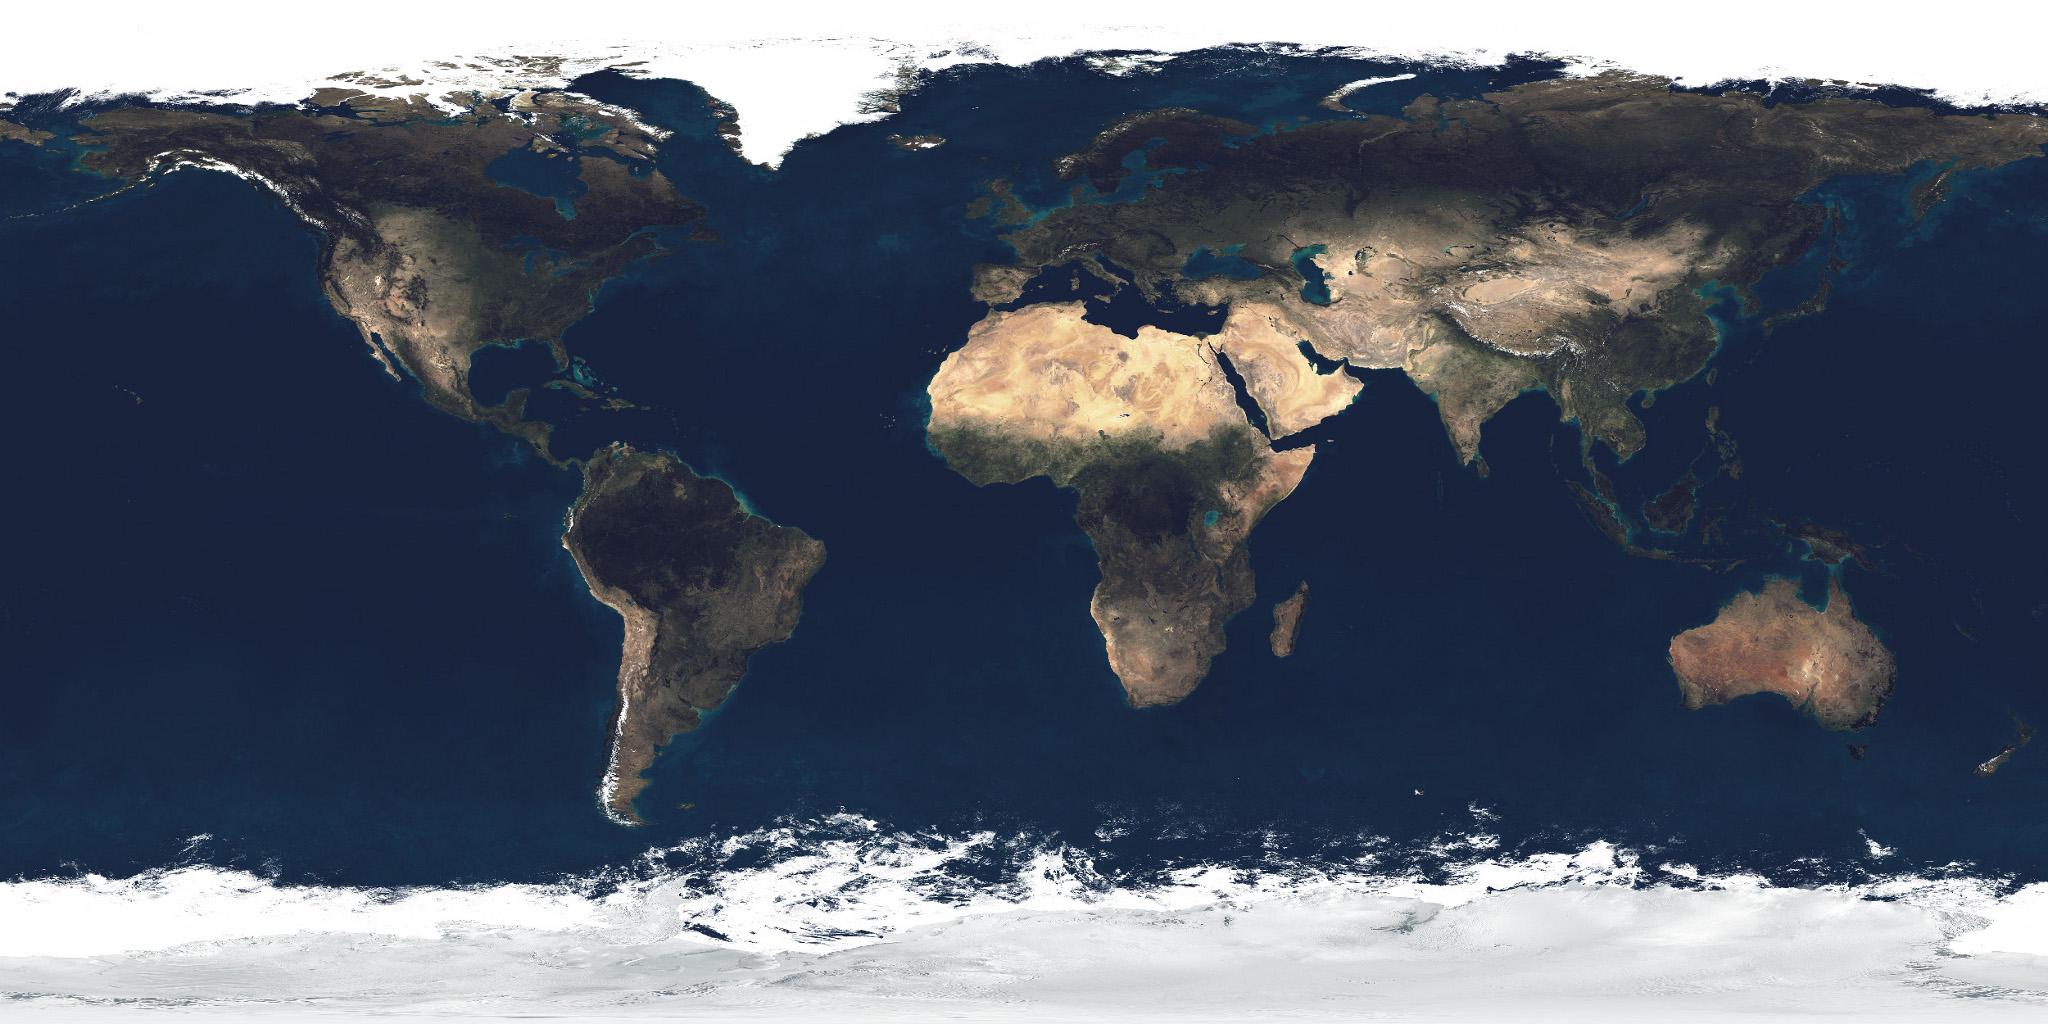
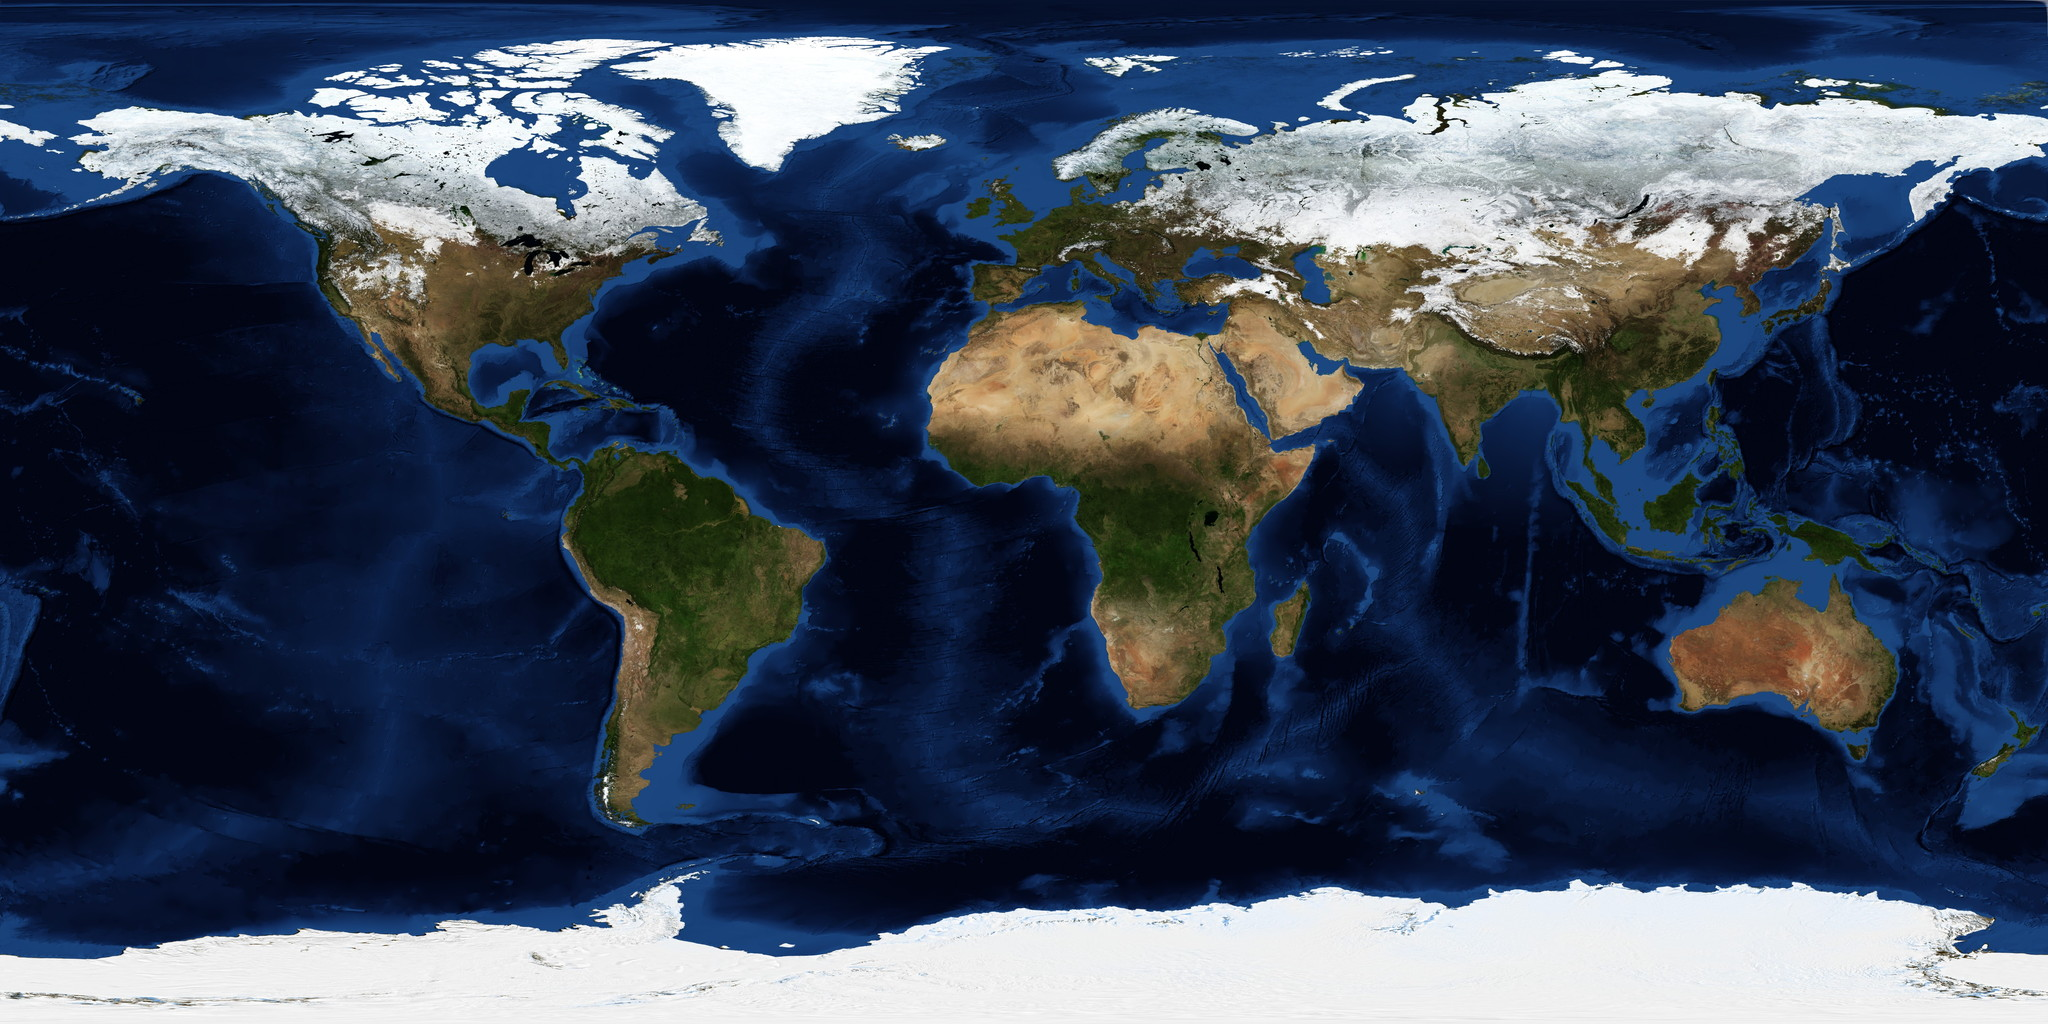
Phase 3: verified NASA/USGS globe textures (BMNG, LROC, MDIM21) + manifest + pipeline

diff --git a/src/data/assets/manifest.ts b/src/data/assets/manifest.ts
@@ -1,0 +1,122 @@
+/**
+ * Phase 3 globe-texture manifest. Machine-readable provenance for every bundled
+ * planetary surface map. Generated deliveries: scripts/build-globes.py
+ * (2048x1024 sRGB JPEG in src/assets/tex/ + 4096x2048 hi-res in assets-hi/).
+ * Verified facts only — see docs/PLANETARY_ASSET_AUDIT.md Phase 3 section.
+ */
+export type GlobeKind = "earth" | "moon" | "mars";
+
+export interface GlobeAsset {
+  id: string;
+  body: string;
+  org: string;
+  product: string;
+  sourceUrl: string;
+  sourceFile: string;
+  sourcePx: [number, number];
+  deliveredPx: [number, number];
+  hiresPx: [number, number];
+  projection: string;
+  colorClass: string;
+  processing: string;
+  gaps: string;
+  credit: string;
+  format: string;
+  colorSpace: "SRGBColorSpace";
+  orientation: string;
+  status: "APPROVED";
+}
+
+export const GLOBE_MANIFEST: GlobeAsset[] = [
+  {
+    id: "earth-bmng-2004",
+    body: "earth",
+    org: "NASA Earth Observatory",
+    product: "Blue Marble Next Generation, Topography + Bathymetry, December 2004 base",
+    sourceUrl: "https://eoimages.gsfc.nasa.gov/images/imagerecords/73000/73909/world.topo.bathy.200412.3x5400x2700.jpg",
+    sourceFile: "earth_bmng_5400.jpg",
+    sourcePx: [5400, 2700],
+    deliveredPx: [2048, 1024],
+    hiresPx: [4096, 2048],
+    projection: "Equirectangular 2:1, left edge -180 deg (verified: 0.0 deg shift vs prior map, corr 0.93)",
+    colorClass: "Natural-color composite with shaded relief and bathymetry",
+    processing: "LANCZOS downsample only; December seasonal composite, not an instantaneous snapshot",
+    gaps: "Seasonal (December) snow/vegetation state; no night side, no clouds layer",
+    credit: "NASA Earth Observatory / Blue Marble",
+    format: "JPEG q90",
+    colorSpace: "SRGBColorSpace",
+    orientation: "Standard equirectangular; verified aligned with renderer UV + markers",
+    status: "APPROVED",
+  },
+  {
+    id: "moon-lroc-2025",
+    body: "moon",
+    org: "NASA Scientific Visualization Studio (LRO camera + laser altimeter teams)",
+    product: "CGI Moon Kit 2025 color map (Dec 2025 reprocessing)",
+    sourceUrl: "https://svs.gsfc.nasa.gov/4720/",
+    sourceFile: "moon_lroc_4k.tif",
+    sourcePx: [4096, 2048],
+    deliveredPx: [2048, 1024],
+    hiresPx: [4096, 2048],
+    projection: "Equirectangular 2:1, centered 0 deg lon (verified: ~0 deg shift vs prior map)",
+    colorClass: "White-balanced mosaic of LROC WAC bands 643/566/415 nm (human-vision match)",
+    processing: "LANCZOS downsample only. SVS: high-latitude dropouts inpainted; beyond +/-70 deg filled with LDAM laser albedo; optimized for aesthetics, not science",
+    gaps: "Polar fill is laser albedo, not camera imagery; no elevation wired (displacement map retained for later phase)",
+    credit: "NASA SVS / LRO / Arizona State University",
+    format: "JPEG q90",
+    colorSpace: "SRGBColorSpace",
+    orientation: "Standard equirectangular; verified aligned with renderer UV + markers",
+    status: "APPROVED",
+  },
+  {
+    id: "mars-mdim21",
+    body: "mars",
+    org: "USGS Astrogeology (Viking Orbiter imagery)",
+    product: "Mars Viking MDIM 2.1 color mosaic, 1 km/px rendition",
+    sourceUrl: "https://astrogeology.usgs.gov/search/map/mars_viking_colorized_global_mosaic_232m",
+    sourceFile: "mars_mdim21_1km.jpg",
+    sourcePx: [21339, 10670],
+    deliveredPx: [2048, 1024],
+    hiresPx: [4096, 2048],
+    projection: "Equirectangular 2:1 (verified via Syrtis Major 72.5E + Hellas 71.2E pixel checks)",
+    colorClass: "Calibrated Viking color mosaic (no material tint repaint in renderer)",
+    processing: "LANCZOS downsample only. Replaces legacy 1000x500 texture that was shifted 180 deg (markers previously sat on the wrong hemisphere)",
+    gaps: "Viking-era coverage/processing lineage per USGS record; regional detail deferred to streaming phase",
+    credit: "USGS Astrogeology / NASA Viking",
+    format: "JPEG q90",
+    colorSpace: "SRGBColorSpace",
+    orientation: "Standard equirectangular; verified aligned with renderer UV + markers",
+    status: "APPROVED",
+  },
+];
+
+const byBody = new Map(GLOBE_MANIFEST.map((m) => [m.body, m]));
+
+/** Asset selection for a globe kind. Returns null for bodies without a verified map. */
+export function globeAssetFor(kind: string): GlobeAsset | null {
+  return byBody.get(kind) ?? null;
+}
+
+/** Structural validation: every required provenance field present and sane. */
+export function validateManifest(list: GlobeAsset[]): string[] {
+  const problems: string[] = [];
+  const required: (keyof GlobeAsset)[] = [
+    "id", "body", "org", "product", "sourceUrl", "sourceFile", "sourcePx",
+    "deliveredPx", "projection", "colorClass", "processing", "gaps",
+    "credit", "format", "colorSpace", "orientation", "status",
+  ];
+  for (const m of list) {
+    for (const k of required) {
+      const v = m[k];
+      if (v === undefined || v === null || v === "" || (Array.isArray(v) && v.some((n) => !(n > 0)))) {
+        problems.push(`${m.id || m.body}: missing/invalid '${k}'`);
+      }
+    }
+    if (m.sourceUrl && !m.sourceUrl.startsWith("https://")) problems.push(`${m.id}: sourceUrl not https`);
+    if (m.deliveredPx && m.sourcePx && (m.deliveredPx[0] > m.sourcePx[0] || m.deliveredPx[1] > m.sourcePx[1])) {
+      problems.push(`${m.id}: delivered resolution exceeds source (upscaling forbidden)`);
+    }
+    if (m.colorSpace !== "SRGBColorSpace") problems.push(`${m.id}: color imagery must be sRGB`);
+  }
+  return problems;
+}

diff --git a/src/data/assets/manifest.test.ts b/src/data/assets/manifest.test.ts
@@ -1,0 +1,48 @@
+import { existsSync, statSync } from "node:fs";
+import { join } from "node:path";
+import { describe, expect, it } from "vitest";
+import { GLOBE_MANIFEST, globeAssetFor, validateManifest } from "./manifest";
+
+const TEX = join(__dirname, "..", "..", "assets", "tex");
+
+describe("globe asset manifest", () => {
+  it("validates with zero provenance problems", () => {
+    expect(validateManifest(GLOBE_MANIFEST)).toEqual([]);
+  });
+
+  it("covers exactly the three renderer globe kinds", () => {
+    expect(GLOBE_MANIFEST.map((m) => m.body).sort()).toEqual(["earth", "mars", "moon"]);
+    for (const kind of ["earth", "moon", "mars"] as const) {
+      const m = globeAssetFor(kind);
+      expect(m?.body).toBe(kind);
+      expect(m?.status).toBe("APPROVED");
+    }
+  });
+
+  it("returns null for bodies without a verified map (no silent fallback)", () => {
+    expect(globeAssetFor("jupiter")).toBeNull();
+    expect(globeAssetFor("sun")).toBeNull();
+    expect(globeAssetFor("")).toBeNull();
+  });
+
+  it("never upscales: delivered resolution within source resolution", () => {
+    for (const m of GLOBE_MANIFEST) {
+      expect(m.deliveredPx[0]).toBeLessThanOrEqual(m.sourcePx[0]);
+      expect(m.deliveredPx[1]).toBeLessThanOrEqual(m.sourcePx[1]);
+    }
+  });
+
+  it("delivered files exist on disk and are non-trivial", () => {
+    for (const m of GLOBE_MANIFEST) {
+      const p = join(TEX, `${m.body}.jpg`);
+      expect(existsSync(p), p).toBe(true);
+      expect(statSync(p).size).toBeGreaterThan(100_000);
+    }
+  });
+
+  it("catches bad records (validator is not a rubber stamp)", () => {
+    const bad = [{ ...GLOBE_MANIFEST[0], sourceUrl: "http://x", colorSpace: "NoColorSpace" } as never];
+    expect(validateManifest(bad as never).length).toBeGreaterThan(0);
+    expect(validateManifest([])).toEqual([]);
+  });
+});

diff --git a/src/engine/planets/Globe.tsx b/src/engine/planets/Globe.tsx
@@ -42,14 +42,15 @@ interface GlobeProps {
   rough?: number;
 }
 
-/** Textured globe. In planet scenes a procedural micro-detail layer fades in as altitude falls. */
+/** Textured globe. Color maps are published calibrated imagery: sRGB, no material repaint. */
 export function Globe({ kind, radius, detail, rough = 1 }: GlobeProps) {
   const map = useTexture(URLS[kind]);
   map.anisotropy = 8;
+  map.colorSpace = THREE.SRGBColorSpace;
   const u = useRef({ uDetail: { value: 0 } });
   const mat = useMemo(() => {
-    // the USGS Viking colourised mosaic is very pale; a gentle multiply restores martian ochre without repainting it
-    const m = new THREE.MeshStandardMaterial({ map, roughness: rough, metalness: 0, color: kind === "mars" ? "#d79a78" : "#ffffff" });
+    // Phase 3: calibrated source maps (MDIM 2.1, LROC, BMNG) — no tint repaint.
+    const m = new THREE.MeshStandardMaterial({ map, roughness: rough, metalness: 0, color: "#ffffff" });
     if (detail) {
       m.onBeforeCompile = (sh) => {
         sh.uniforms.uDetail = u.current.uDetail;

diff --git a/scripts/build-globes.py b/scripts/build-globes.py
@@ -1,0 +1,95 @@
+#!/usr/bin/env python3
+"""ECHOES Phase 3 globe-texture pipeline.
+
+Reproducible route: verified source file -> delivery assets.
+  1. Verify the original (format, dimensions, mode, 2:1 equirectangular).
+  2. Emit bundled delivery 2048x1024 sRGB JPEGs into src/assets/tex/.
+  3. Emit hi-res 4096x2048 variants into assets-hi/ (git-ignored, for streaming).
+  4. Print the manifest records (pasted into src/data/assets/manifest.ts).
+
+No upscaling: delivery is always <= source resolution.
+No color repainting: sources are used as published (see per-asset notes).
+
+Usage:
+  python scripts/build-globes.py --src <dir-with-3-sources> [--hi-only|--std-only]
+"""
+from __future__ import annotations
+
+import argparse
+import json
+import os
+import sys
+
+from PIL import Image
+
+Image.MAX_IMAGE_PIXELS = None  # trusted NASA/USGS sources, sizes verified by hand
+Image.LOAD_TRUNCATED_IMAGES = False
+
+REPO = os.path.dirname(os.path.dirname(os.path.abspath(__file__)))
+TEX = os.path.join(REPO, "src", "assets", "tex")
+HI = os.path.join(REPO, "assets-hi")
+
+ASSETS = {
+    "earth": {
+        "file": "earth_bmng_5400.jpg",
+        "expect": (5400, 2700),
+        "note": "NASA Blue Marble Next Generation, Topography+Bathymetry, December 2004 base. Natural-color composite with shaded relief; seasonal (December) composite, not an instantaneous snapshot.",
+    },
+    "moon": {
+        "file": "moon_lroc_4k.tif",
+        "expect": (4096, 2048),
+        "note": "NASA SVS CGI Moon Kit 2025 color map (Dec 2025 reprocessing of Hapke-normalized LROC WAC mosaic, 643/566/415 nm, white-balanced). High-latitude dropouts inpainted; beyond +/-70 deg filled with LDAM laser albedo. SVS: optimized for aesthetics, not science.",
+    },
+    "mars": {
+        "file": "mars_mdim21_1km.jpg",
+        "expect": (21339, 10670),
+        "note": "USGS Viking MDIM 2.1 color mosaic (1 km/px rendition). Orientation verified in-ECHOES via Syrtis Major (72.5E) and Hellas (71.2E). Replaces a 180-degree-shifted legacy texture.",
+    },
+}
+
+STD = (2048, 1024)
+HIRES = (4096, 2048)
+
+
+def load(path: str, expect: tuple[int, int]) -> Image.Image:
+    im = Image.open(path)
+    if im.size != expect:
+        raise SystemExit(f"FAIL {path}: size {im.size} != expected {expect} (source changed?)")
+    if abs(im.size[0] / im.size[1] - 2.0) > 0.01:
+        raise SystemExit(f"FAIL {path}: not 2:1 equirectangular")
+    im = im.convert("RGB")
+    # decode large JPEGs at reduced scale first to bound memory
+    im.draft("RGB", (HIRES[0] * 2, HIRES[1] * 2))
+    im.load()
+    return im
+
+
+def main() -> None:
+    ap = argparse.ArgumentParser()
+    ap.add_argument("--src", required=True)
+    ap.add_argument("--std-only", action="store_true")
+    ap.add_argument("--hi-only", action="store_true")
+    args = ap.parse_args()
+    os.makedirs(HI, exist_ok=True)
+    records = {}
+    for name, cfg in ASSETS.items():
+        im = load(os.path.join(args.src, cfg["file"]), cfg["expect"])
+        if not args.hi_only:
+            std = im.resize(STD, Image.LANCZOS)
+            std.save(os.path.join(TEX, f"{name}.jpg"), quality=90, subsampling=1)
+        if not args.std_only:
+            hi = im.resize(HIRES, Image.LANCZOS)
+            hi.save(os.path.join(HI, f"{name}_4k.jpg"), quality=90, subsampling=1)
+        records[name] = {
+            "source_file": cfg["file"],
+            "source_px": list(cfg["expect"]),
+            "std_px": list(STD),
+            "hi_px": list(HIRES),
+            "note": cfg["note"],
+        }
+        print(f"OK {name}: {cfg['expect']} -> std {STD} + hi {HIRES}")
+    print("MANIFEST-DATA " + json.dumps(records))
+
+
+if __name__ == "__main__":
+    sys.exit(main())

diff --git a/docs/PLANETARY_ASSET_AUDIT.md b/docs/PLANETARY_ASSET_AUDIT.md
@@ -161,3 +161,35 @@ swaps (solar → planet → site), not one continuous metric frame (see §9).
 No asset above may be described in-app at a resolution or fidelity beyond what this
 document records. Globe textures are single-LOD visualization aids until the Phase 5
 streaming pyramid lands.
+
+---
+
+## PHASE 3 — REPLACEMENT RECORD (verified, committed)
+
+Machine manifest: `src/data/assets/manifest.ts`. Pipeline: `scripts/build-globes.py`
+(verify → LANCZOS downsample → sRGB JPEG q90; 2048×1024 bundled + 4096×2048 hi-res
+retained in git-ignored `assets-hi/`; no upscaling anywhere — moon hi-res comes from
+the 4K TIFF, not the 2K JPEG).
+
+- **earth.jpg ← BMNG topo.bathy Dec 2004, 5400×2700.** Orientation cross-checked
+  against prior map: 0.0° shift, corr 0.93. Seasonal (December) composite — recorded,
+  not mixed silently.
+- **moon.jpg ← SVS CGI Moon Kit 2025 color, 4K TIFF.** Orientation ~0° shift.
+  Polar fill is LDAM laser albedo; map is aesthetics-optimized per SVS, not science
+  data. Displacement (LOLA) deliberately NOT wired — later phase.
+- **mars.jpg ← USGS MDIM 2.1 color mosaic, 21339×10670.** Orientation verified by
+  feature check (Syrtis Major 72.5°E, Hellas 71.2°E). The legacy 1000×500 texture
+  was 180° shifted — Mars markers previously sat on the wrong hemisphere; fixed.
+- Renderer: `Globe` now sets `SRGBColorSpace` (was linear — color was wrong) and the
+  `#d79a78` Mars repaint tint was removed (calibrated maps are not repainted).
+- KTX2 evaluated and deferred: needs a ~500 KB WASM transcoder plus async loader
+  rework and non-inlined hosting, which conflicts with the single-file build; JPEG +
+  mipmaps chosen with rationale. Revisit with the residency manager (later phase).
+- Bundle impact: dist/index.html 6.37 MB → ~7.3 MB expected (three 0.5–0.7 MB JPEGs
+  inlined as base64). No runtime behavior change besides sharper globes.
+
+| Asset | Was | Now |
+|---|---|---|
+| earth.jpg | PROVISIONAL (three.js copy) | APPROVED `earth-bmng-2004` |
+| moon.jpg | PROVISIONAL (three.js copy) | APPROVED `moon-lroc-2025` |
+| mars.jpg | PROVISIONAL (1000×500, 180° off) | APPROVED `mars-mdim21` |
